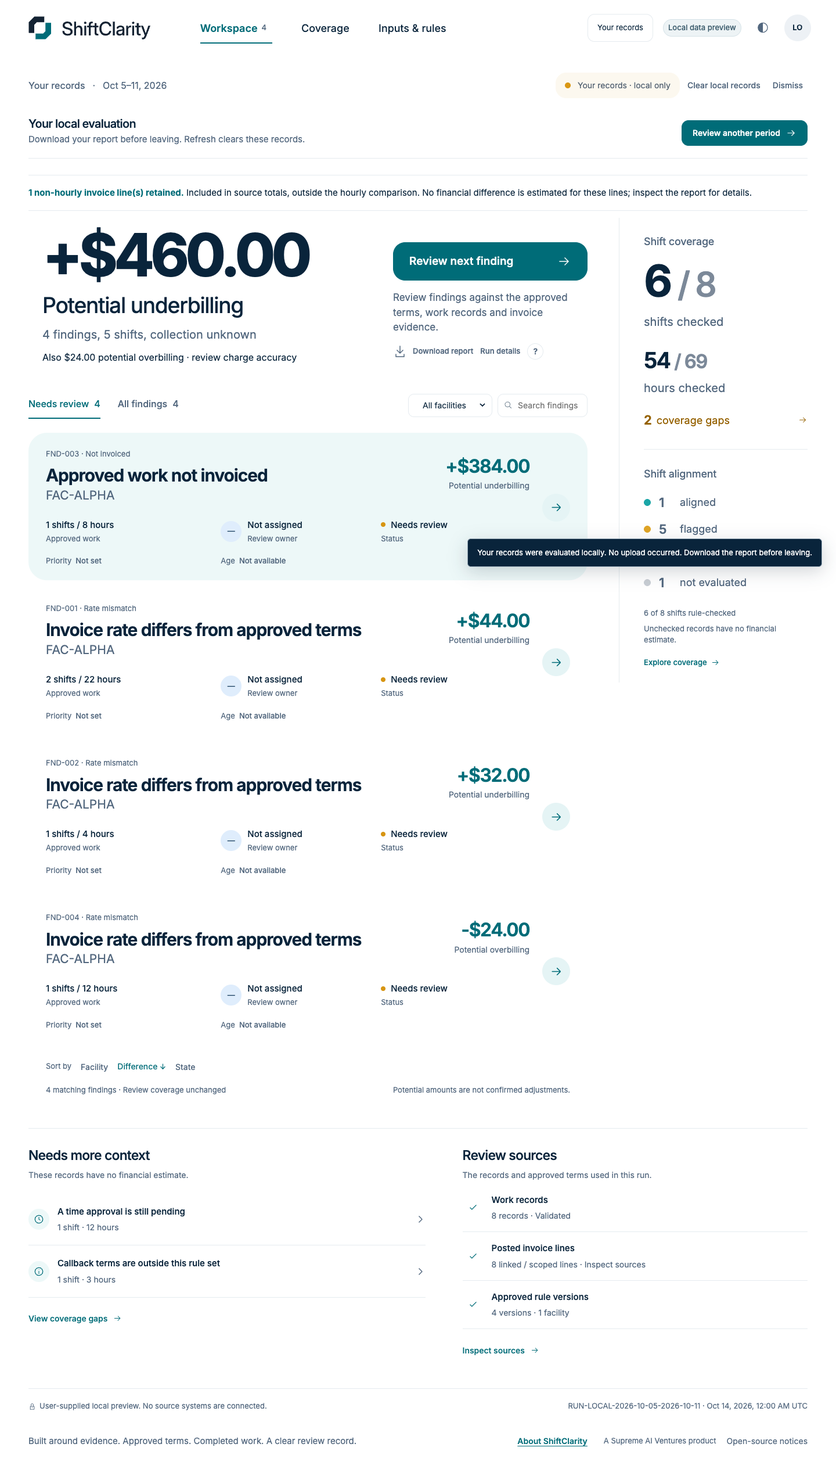
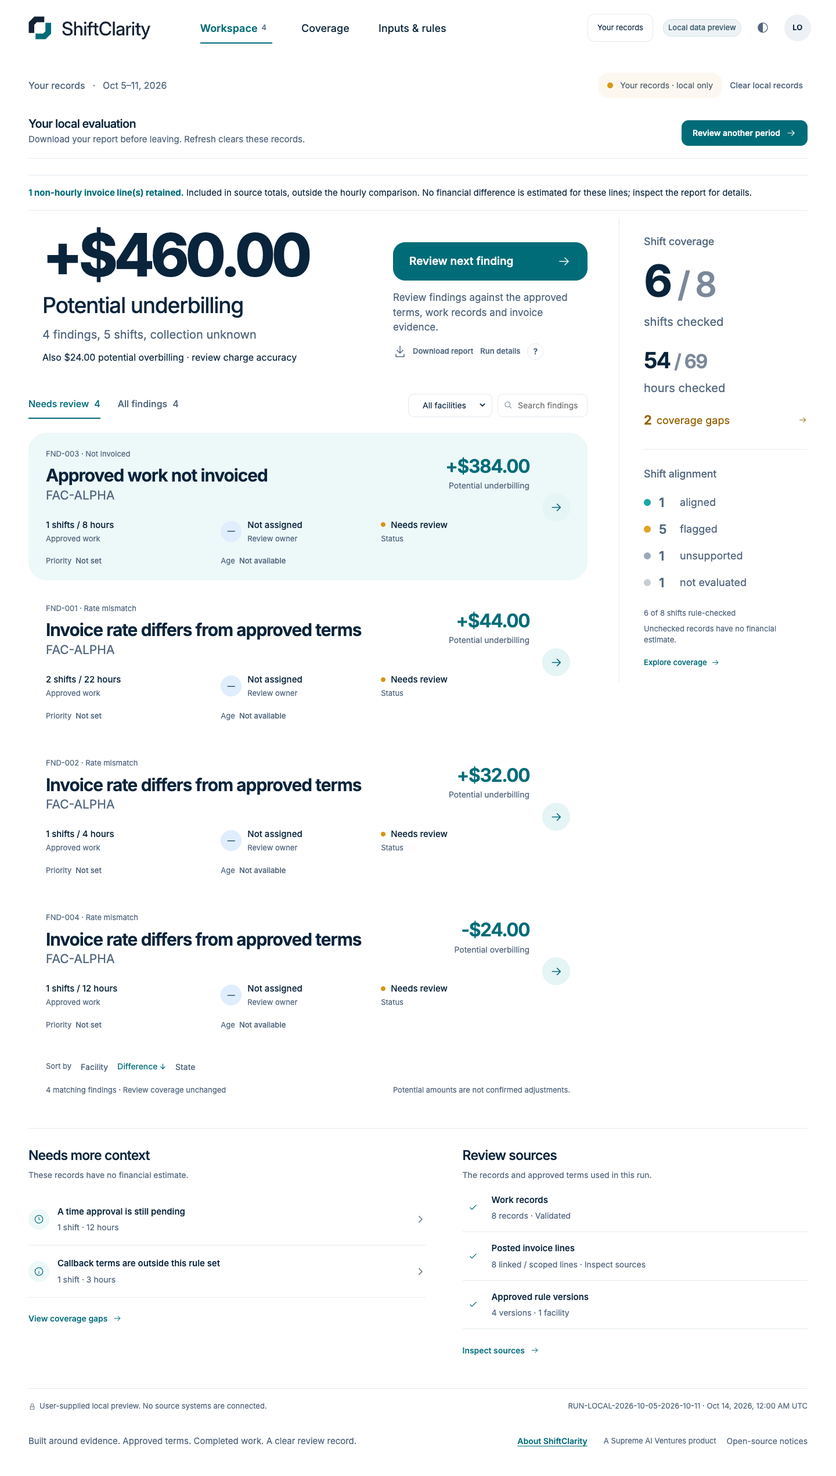
Clarify local-file setup and record live manual verification

Changed region(s): [[0.5625, 0.342, 1.0, 0.4042]]

diff --git a/src/App.tsx b/src/App.tsx
@@ -76,9 +76,9 @@ export default function App({pilot}:{pilot?:PilotController}={}){
  const selected=state.run?.findings.find(f=>f.id===(url.searchParams.get('id')||(url.searchParams.get('case')==='missing'?'FND-002':'FND-001')));
  return <div className="app-shell" data-theme={dark?'dark':'light'} onClick={intercept}><a className="skip" href="#main">Skip to content</a>
  <div className="app"><div className="appbody">
- <header className={'topbar'+(pilot?' pilot-topbar':'')}><a className="desktop-brand" href="?view=workspace" aria-label="ShiftClarity workspace"><Logo inverse={dark}/></a><div className="topbar-mobile"><button className="mobile-menu" aria-expanded={menu} aria-label="Toggle workspace navigation" onClick={()=>setMenu(!menu)}><Icon name="menu"/></button><Logo inverse={dark}/></div><nav aria-label="Application navigation">{navigation.filter(v=>!(customData||view==='files')||v!=='rules').map(v=>{const active=v==='workspace'?['workspace','evidence'].includes(view):v==='inputs'?['inputs','import','files','custom'].includes(view):view===v;return <a key={v} className={'navlink '+(active?'active':'')} href={'?view='+v} aria-label={labels[v]} aria-current={active?'page':undefined}>{labels[v]}{v==='workspace'&&<span className="nav-count">{state.run?.findings.filter(f=>reviewFor(f,state.reviews).state==='needs_review').length||0}</span>}</a>;})}</nav><div className="top-right"><span className="workspace-context">{workspaceLabel}</span>{pilot&&<Pill type="demo">Synthetic pilot</Pill>}{!pilot&&customData&&<Pill type="demo">Local data preview</Pill>}<button className="theme-toggle" type="button" aria-label={dark?'Use light mode':'Use dark mode'} aria-pressed={dark} onClick={toggleTheme}><span aria-hidden="true">◐</span></button>{pilot&&<button className="account-signout" type="button" onClick={()=>void pilot.logout().catch(e=>setNotice('Sign-out failed. '+displayUserText((e as Error).message)))}>Sign out</button>}<span className="avatar" aria-label={actorLabel(avatarActor)}>{actorInitials(avatarActor)}</span></div></header>
+ <header className={'topbar'+(pilot?' pilot-topbar':'')}><a className="desktop-brand" href="?view=workspace" aria-label="ShiftClarity workspace"><Logo inverse={dark}/></a><div className="topbar-mobile"><button className="mobile-menu" aria-expanded={menu} aria-label="Toggle workspace navigation" onClick={()=>setMenu(!menu)}><Icon name="menu"/></button><Logo inverse={dark}/></div><nav aria-label="Application navigation">{navigation.filter(v=>!(customData||view==='files')||v!=='rules').map(v=>{const active=v==='workspace'?['workspace','evidence'].includes(view):v==='inputs'?['inputs','import','files','custom'].includes(view):view===v;return <a key={v} className={'navlink '+(active?'active':'')} href={'?view='+v} aria-label={labels[v]} aria-current={active?'page':undefined}>{labels[v]}{v==='workspace'&&view!=='files'&&<span className="nav-count">{state.run?.findings.filter(f=>reviewFor(f,state.reviews).state==='needs_review').length||0}</span>}</a>;})}</nav><div className="top-right"><span className="workspace-context">{workspaceLabel}</span>{pilot&&<Pill type="demo">Synthetic pilot</Pill>}{!pilot&&customData&&<Pill type="demo">Local data preview</Pill>}<button className="theme-toggle" type="button" aria-label={dark?'Use light mode':'Use dark mode'} aria-pressed={dark} onClick={toggleTheme}><span aria-hidden="true">◐</span></button>{pilot&&<button className="account-signout" type="button" onClick={()=>void pilot.logout().catch(e=>setNotice('Sign-out failed. '+displayUserText((e as Error).message)))}>Sign out</button>}<span className="avatar" aria-label={actorLabel(avatarActor)}>{actorInitials(avatarActor)}</span></div></header>
  <nav className={'mobile-nav-links '+(menu?'open':'')} aria-label="Mobile application navigation">{navigation.filter(v=>!(customData||view==='files')||v!=='rules').map(v=><a href={'?view='+v} key={v} aria-current={view===v?'page':undefined}>{labels[v]}</a>)}</nav>
- <div className="page-context" role="region" aria-label="Page context"><div className="breadcrumbs"><strong>{workspaceLabel}</strong><span>·</span><span>{view==='workspace'&&state.run?formatDateRange(state.run.manifest.service_from,state.run.manifest.service_to_exclusive):labels[view]||'Your records'}</span></div>{!pilot&&(disclosureVisible||customData||view==='files')&&<aside className="demo-banner" role="note" aria-label={customData||view==='files'?'Local data disclosure':'Demo disclosure'}><span className="demo-data-label"><i aria-hidden="true"/>{customData||view==='files'?'Your records · local only':'Fictional demo data'}<span className="sr-only">{customData||view==='files'?'Records remain in this tab. Refresh clears your work.':'Demo with fictional data. No source systems connected.'}</span></span><button className="banner-reset" onClick={()=>openModal({kind:'reset'})}>{customData?'Clear local records':'Reset demo'}</button><button className="banner-dismiss" aria-label="Dismiss demo disclosure" onClick={dismissDisclosure}>Dismiss</button></aside>}</div>
+ <div className="page-context" role="region" aria-label="Page context"><div className="breadcrumbs"><strong>{workspaceLabel}</strong><span>·</span><span>{view==='workspace'&&state.run?formatDateRange(state.run.manifest.service_from,state.run.manifest.service_to_exclusive):labels[view]||'Your records'}</span></div>{!pilot&&(disclosureVisible||customData||view==='files')&&<aside className="demo-banner" role="note" aria-label={customData||view==='files'?'Local data disclosure':'Demo disclosure'}><span className="demo-data-label"><i aria-hidden="true"/>{customData||view==='files'?'Your records · local only':'Fictional demo data'}<span className="sr-only">{customData||view==='files'?'Records remain in this tab. Refresh clears your work.':'Demo with fictional data. No source systems connected.'}</span></span>{(customData||view!=='files')&&<button className="banner-reset" onClick={()=>openModal({kind:'reset'})}>{customData?'Clear local records':'Reset demo'}</button>}{!customData&&view!=='files'&&<button className="banner-dismiss" aria-label="Dismiss demo disclosure" onClick={dismissDisclosure}>Dismiss</button>}</aside>}</div>
  <main id="main" className="content" tabIndex={-1}>{notice&&<div className="toast" role="status" aria-live="polite"><span>{displayUserText(notice)}</span>{undo?.notice===notice&&!pilot&&<button className="toast-undo" onClick={()=>{setState(undo.state);setUndo(null);setNotice('Review action undone. Finding status and count restored.');}}>Undo</button>}</div>}{state.stale&&view!=='workspace'&&<div className="warning-box stale" role="alert"><strong>Stale results · {state.run?.id} retained</strong><p>The latest run failed: {displayUserText(state.error||'')}. No partial result was published. Rerun validated evidence before review.</p></div>}{state.importState==='quarantined'&&<div className="warning-box" role="alert"><strong>Quarantined input · not imported</strong><p>{displayUserText(state.error||'')}</p></div>}
  {pilot&&<nav className="workflow-nav" aria-label="Review workflow"><span>{state.run?.id===pilot.latest_run_id?'Latest completed run':'Historical run · original evidence'}</span><a href="?view=history" aria-current={view==='history'?'page':undefined}>Period history</a><a href="?view=followup" aria-current={view==='followup'?'page':undefined}>Follow-up queue</a><a href="?view=import">Import / approve files</a>{pilot.session.roles.includes('owner')&&<a href="?view=setup" aria-current={view==='setup'?'page':undefined}>Workspace &amp; team</a>}</nav>}
  {pilot&&view==='setup'&&<AgencySetup pilot={pilot}/>}
@@ -105,7 +105,7 @@ export default function App({pilot}:{pilot?:PilotController}={}){
  {view==='rules'&&!customData&&<Rules state={pilot?.approval?{...state,draft:pilot.approval.draft,ruleHistory:pilot.approval.ruleHistory,approvedFutureRules:pilot.approval.approvedFutureRules}:state} sourceExcerpts={pilot?.catalog.excerpts} actor={activeActor} secure={!!pilot} canApprove={!pilot||pilot.session.roles.includes('approver')} onActor={setActor} onApprove={doApprove} onReject={()=>openModal({kind:'reject'})}/>}
  {view==='coverage'&&<Coverage state={state} secure={!!pilot} canReview={!pilot||pilot.session.roles.includes('reviewer')} onRequest={task=>openModal({kind:'task',task})}/>}{view==='files'?<p className="footnote">Your files stay in this tab. Download the report before leaving; refresh clears the local review.</p>:<Foot secure={!!pilot} run={state.run?.id} manifest={state.run?.manifest}/>}<footer className="product-footer"><p>Built around evidence. Approved terms. Completed work. A clear review record.</p><div><button className="footer-about" onClick={()=>openModal({kind:'about'})}>About ShiftClarity</button><span>A Supreme AI Ventures product</span><a href="/legal/third-party-notices.txt" target="_blank" rel="noreferrer">Open-source notices</a></div></footer></main></div></div>
  {modal?.kind==='report'&&state.run&&<ReportDownloads state={state} secure={!!pilot} onClose={()=>setModal(null)}/>}
- {modal&&modal.kind!=='report'&&<Dialog secure={!!pilot} localData={customData} title={modal.kind==='review'?({confirm:'Confirm discrepancy',dismiss:'Dismiss with a scoped reason',request_evidence:pilot?'Record an evidence request':'Prepare a local evidence request',reopen:'Reopen for review'}[modal.action]):modal.kind==='reset'?'Reset the synthetic demo?':modal.kind==='import'?(pilot?'Import a synthetic snapshot':'Load synthetic fixture files'):modal.kind==='reject'?'Reject the proposed rule':modal.kind==='task'?(pilot?'Record an evidence request':'Prepare a local evidence request'):modal.kind==='shortcuts'?'Keyboard shortcuts':'Every shift. Clearly aligned.'} onClose={()=>setModal(null)}>
- {modal.kind==='reset'?<><p>This clears the current local records and decisions, then restores the canonical fictional snapshot. Download your report first if you want to keep a copy.</p><button className="btn btn-primary" onClick={()=>{setUndo(null);setState(initialDemo(freshInputs(),draftRule));setActor('DEMO-AUTHOR');setNotice('Demo reset to the canonical fictional snapshot.');setModal(null);navigate('?view=workspace');}}>Reset demo</button></>:modal.kind==='import'?<><p>{pilot?'Upload a normalized synthetic JSON bundle (maximum 1 MiB). No names, patient details, clinical fields, PDFs or archives. The server quarantines and validates source controls and registered rate versions before publication.':'Only supplied synthetic JSON, CSV and text files are accepted. Each selected supplied file is validated before reloading the full canonical snapshot. Individual-batch import is not enabled. No file is uploaded.'}</p>{fileValidating&&<p role="status">Validating the selected file locally…</p>}<input ref={fileInput} type="file" accept={pilot?'.json':undefined} aria-label={pilot?'Synthetic snapshot bundle':'Synthetic fixture file'} disabled={fileValidating||!!pilot&&!pilot.session.roles.includes('importer')} onChange={e=>{const file=e.target.files?.[0];if(file)void acceptFile(file);e.currentTarget.value='';}}/>{!pilot&&<button className="btn btn-primary" disabled={fileValidating} onClick={()=>{setUndo(null);setState(prev=>publish(prev,freshInputs()));setNotice('Canonical synthetic fixture loaded; duplicate records were not added.');setModal(null);}}>Load included fixture</button>}{pilot&&<><a className="text-link" href="/api/v1/template" download>Download synthetic template</a><p>Uploading confirms these records are fictional and contain no personal or clinical data.</p></>}{error&&<p className="error" role="alert">{displayUserText(error)}</p>}</>:modal.kind==='about'?<><p>Contract-to-invoice verification for healthcare staffing. A Supreme AI Ventures product.</p><p>{customData||view==='files'?'This browser-local evaluation uses supplied records and declarations. Source authority and completeness are not independently verified. Nothing is uploaded or collected.':'All facilities, workers, documents and amounts are fictional. Assist Healthcare is a sample workspace, not a client endorsement. This synthetic demonstration establishes no production security certification or collection outcome.'}</p><Link to="?view=inputs">Inspect inputs and run scope</Link></>:modal.kind==='shortcuts'?<><dl className="shortcut-list">{[['/','Focus findings search'],['j / k','Move to the next or previous finding'],['Enter','Open the selected finding'],['?','Show keyboard shortcuts']].map(([key,description])=><div key={key}><dt><kbd>{key}</kbd></dt><dd>{description}</dd></div>)}</dl><p>Shortcuts pause while you type or a dialog is open.</p></>:<form onSubmit={submit} aria-busy={saving}><p>{customData?'Use authorized, minimized notes.':'Synthetic notes only.'} A decision does not change a source invoice. Evidence requests create a {pilot?'workspace':'local'} task; nothing is sent.</p><label htmlFor="review-reason">{modal.kind==='task'||(modal.kind==='review'&&modal.action==='request_evidence')?'Specific question':'Review reason'}</label><textarea id="review-reason" value={reason} onChange={e=>setReason(e.target.value)} maxLength={2000} autoFocus/>{(modal.kind==='task'||(modal.kind==='review'&&modal.action==='request_evidence'))&&<><label htmlFor="task-owner">{pilot?'Workspace task owner':'Local task owner'}</label><select id="task-owner" value={owner} onChange={e=>setOwner(e.target.value)}><option value="">Choose an owner</option>{pilot?pilot.members.map(m=><option key={m}>{m}</option>):<><option>{customData?'Local billing reviewer':'Demo billing reviewer'}</option><option>{customData?'Local operations coordinator':'Demo operations coordinator'}</option></>}</select></>}{error&&<p className="error" role="alert">{displayUserText(error)}</p>}<button className="btn btn-primary" type="submit" disabled={saving}>{saving?'Saving…':`${pilot?'Save':'Save local'} ${modal.kind==='task'?'task':'review'}`}</button></form>}
+ {modal&&modal.kind!=='report'&&<Dialog secure={!!pilot} localData={customData} title={modal.kind==='review'?({confirm:'Confirm discrepancy',dismiss:'Dismiss with a scoped reason',request_evidence:pilot?'Record an evidence request':'Prepare a local evidence request',reopen:'Reopen for review'}[modal.action]):modal.kind==='reset'?(customData?'Clear local records?':'Reset the synthetic demo?'):modal.kind==='import'?(pilot?'Import a synthetic snapshot':'Load synthetic fixture files'):modal.kind==='reject'?'Reject the proposed rule':modal.kind==='task'?(pilot?'Record an evidence request':'Prepare a local evidence request'):modal.kind==='shortcuts'?'Keyboard shortcuts':'Every shift. Clearly aligned.'} onClose={()=>setModal(null)}>
+ {modal.kind==='reset'?<><p>This clears the current local records and decisions, then restores the canonical fictional snapshot. Download your report first if you want to keep a copy.</p><button className="btn btn-primary" onClick={()=>{setUndo(null);setState(initialDemo(freshInputs(),draftRule));setActor('DEMO-AUTHOR');setNotice('Demo reset to the canonical fictional snapshot.');setModal(null);navigate('?view=workspace');}}>{customData?'Clear local records':'Reset demo'}</button></>:modal.kind==='import'?<><p>{pilot?'Upload a normalized synthetic JSON bundle (maximum 1 MiB). No names, patient details, clinical fields, PDFs or archives. The server quarantines and validates source controls and registered rate versions before publication.':'Only supplied synthetic JSON, CSV and text files are accepted. Each selected supplied file is validated before reloading the full canonical snapshot. Individual-batch import is not enabled. No file is uploaded.'}</p>{fileValidating&&<p role="status">Validating the selected file locally…</p>}<input ref={fileInput} type="file" accept={pilot?'.json':undefined} aria-label={pilot?'Synthetic snapshot bundle':'Synthetic fixture file'} disabled={fileValidating||!!pilot&&!pilot.session.roles.includes('importer')} onChange={e=>{const file=e.target.files?.[0];if(file)void acceptFile(file);e.currentTarget.value='';}}/>{!pilot&&<button className="btn btn-primary" disabled={fileValidating} onClick={()=>{setUndo(null);setState(prev=>publish(prev,freshInputs()));setNotice('Canonical synthetic fixture loaded; duplicate records were not added.');setModal(null);}}>Load included fixture</button>}{pilot&&<><a className="text-link" href="/api/v1/template" download>Download synthetic template</a><p>Uploading confirms these records are fictional and contain no personal or clinical data.</p></>}{error&&<p className="error" role="alert">{displayUserText(error)}</p>}</>:modal.kind==='about'?<><p>Contract-to-invoice verification for healthcare staffing. A Supreme AI Ventures product.</p><p>{customData||view==='files'?'This browser-local evaluation uses supplied records and declarations. Source authority and completeness are not independently verified. Nothing is uploaded or collected.':'All facilities, workers, documents and amounts are fictional. Assist Healthcare is a sample workspace, not a client endorsement. This synthetic demonstration establishes no production security certification or collection outcome.'}</p><Link to="?view=inputs">Inspect inputs and run scope</Link></>:modal.kind==='shortcuts'?<><dl className="shortcut-list">{[['/','Focus findings search'],['j / k','Move to the next or previous finding'],['Enter','Open the selected finding'],['?','Show keyboard shortcuts']].map(([key,description])=><div key={key}><dt><kbd>{key}</kbd></dt><dd>{description}</dd></div>)}</dl><p>Shortcuts pause while you type or a dialog is open.</p></>:<form onSubmit={submit} aria-busy={saving}><p>{customData?'Use authorized, minimized notes.':'Synthetic notes only.'} A decision does not change a source invoice. Evidence requests create a {pilot?'workspace':'local'} task; nothing is sent.</p><label htmlFor="review-reason">{modal.kind==='task'||(modal.kind==='review'&&modal.action==='request_evidence')?'Specific question':'Review reason'}</label><textarea id="review-reason" value={reason} onChange={e=>setReason(e.target.value)} maxLength={2000} autoFocus/>{(modal.kind==='task'||(modal.kind==='review'&&modal.action==='request_evidence'))&&<><label htmlFor="task-owner">{pilot?'Workspace task owner':'Local task owner'}</label><select id="task-owner" value={owner} onChange={e=>setOwner(e.target.value)}><option value="">Choose an owner</option>{pilot?pilot.members.map(m=><option key={m}>{m}</option>):<><option>{customData?'Local billing reviewer':'Demo billing reviewer'}</option><option>{customData?'Local operations coordinator':'Demo operations coordinator'}</option></>}</select></>}{error&&<p className="error" role="alert">{displayUserText(error)}</p>}<button className="btn btn-primary" type="submit" disabled={saving}>{saving?'Saving…':`${pilot?'Save':'Save local'} ${modal.kind==='task'?'task':'review'}`}</button></form>}
  </Dialog>}</div>;
 }

diff --git a/tests/e2e/adoption.spec.ts b/tests/e2e/adoption.spec.ts
@@ -16,6 +16,7 @@ test('prospect imports their own exports, reviews both directions, and downloads
  await page.getByLabel('Work exports include all records for this facility and service period.').check();await page.getByLabel('Invoice exports include all posted lines, credits and rebills through this cutoff for the same scope.').check();await page.getByLabel('Independent work hours (optional)',{exact:true}).fill('69');await page.getByLabel('Independent signed posted total USD (optional)',{exact:true}).fill('3501.00');
  for(const name of ['work.csv','invoices.csv','rates.csv'])await page.getByRole('button',{name:'Confirm '+name+' mapping',exact:true}).click();await page.getByLabel('I’m authorized to test these minimized records, and I checked the supplied rate terms and declarations.').check();await publish(page);
  await expect(page.getByText('6 of 8 shifts rule-checked')).toBeVisible();await expect(page.locator('.demo-data-label')).toHaveText('Your records · local onlyRecords remain in this tab. Refresh clears your work.');await expect(page.getByRole('link',{name:'Rule approval',exact:true})).toHaveCount(0);
+ await expect(page.locator('.toast')).toHaveCount(0,{timeout:10000});
  await page.screenshot({path:info.outputPath('own-file-workspace.png'),fullPage:true});
  await page.getByRole('button',{name:'Download report',exact:true}).click();await expect(page.getByRole('dialog')).toContainText('Your records · local only');await expect(page.getByRole('dialog')).toContainText('Non-hourly invoice lines');
  await page.emulateMedia({media:'print'});await page.pdf({path:info.outputPath('own-file-billing-review.pdf'),printBackground:true,preferCSSPageSize:true});await page.emulateMedia({media:null});
@@ -53,4 +54,21 @@ test('Excel exports are read in-browser with explicit sheet selection and a real
 });
 test('an active Excel workbook is rejected locally before mappings or upload',async({page})=>{
  await page.goto('/demo/?view=files');const XLSX=await import('xlsx'),book=XLSX.utils.book_new(),sheet=XLSX.utils.aoa_to_sheet([['Work ID','Hours'],['W1',8]]);sheet.B2.f='2+6';XLSX.utils.book_append_sheet(book,sheet,'Time');await page.getByLabel('Local Approved work',{exact:true}).setInputFiles({name:'formula.xlsx',mimeType:'application/vnd.openxmlformats-officedocument.spreadsheetml.sheet',buffer:XLSX.write(book,{type:'buffer',bookType:'xlsx',compression:true})});await expect(page.getByRole('alert')).toContainText('Formula cells');await expect(page.locator('.local-mapping')).toHaveCount(0);await expect(page.getByRole('button',{name:'Validate files locally',exact:false})).toBeDisabled();
+});
+
+test('own-file setup separates staged files from demo results and clearing names the local records',async({page})=>{
+ await page.goto('/demo/?view=files');
+ const nav=page.getByRole('navigation',{name:'Application navigation',exact:true});
+ const disclosure=page.getByRole('note',{name:'Local data disclosure',exact:true});
+ await expect(nav.locator('.nav-count')).toHaveCount(0);
+ await expect(disclosure).toContainText('Your records · local only');
+ await expect(disclosure.getByRole('button')).toHaveCount(0);
+ await configure(page);await publish(page);
+ await expect(nav.locator('.nav-count')).toHaveText('4');
+ await disclosure.getByRole('button',{name:'Clear local records',exact:true}).click();
+ const dialog=page.getByRole('dialog',{name:'Clear local records?',exact:true});
+ await expect(dialog).toContainText('Download your report first');
+ await dialog.getByRole('button',{name:'Clear local records',exact:true}).click();
+ await expect(page.getByRole('note',{name:'Demo disclosure',exact:true})).toContainText('Fictional demo data');
+ await expect(nav.locator('.nav-count')).toHaveText('2');
 });

diff --git a/docs/VERIFICATION.md b/docs/VERIFICATION.md
@@ -201,3 +201,14 @@ Post-release recovery matched **19 tables** and **65 private source objects** in
 The manual Ego workspace disappeared; no replacement was created without the skill-required permission. Actual Chrome outputs, downloaded workbooks/PDFs and desktop/mobile landing captures were inspected instead. The optional browser-tool update remains unapplied. No manual sign-in or real-agency acceptance is claimed for this release.
 
 Research and invented export variants do not establish vendor certification, real-customer accuracy or a measured conversion/savings outcome. Customer-specific approved exports, contract semantics, independent labels and customer-cloud operating approval remain external acceptance work.
+
+
+### Approved manual follow-up · October 24, 2026
+
+With the user's permission, Ego task 8 manually exercised the live landing CTA, fictional CSV loading, all three confirmed mappings, readiness declarations, the published local workspace, evidence tabs, coverage gaps and report controls. The downloaded ten-sheet Excel report was independently read with OpenPyXL: $460 potential underbilling, $24 potential overbilling, $25 non-hourly charge retained, literal cells and worker identities omitted. The original work-approval event remains explicitly unknown. At 390px, evidence, coverage and the final file-setup header fit the viewport and render on a white background. Task 8 was finished once after verification.
+
+Inspection found a small context mismatch: staged own-file setup showed a finding count from the fictional demo and an irrelevant reset action. The setup now hides those controls; published local records retain their own count and a consistently named “Clear local records” confirmation. The mandatory local-data disclosure has no ineffective dismissal button. Canonical demo dismissal/reset behavior remains covered.
+
[1 lines of base64/hex data omitted]
+
+Ego screenshot capture still timed out, so this adds manual interaction/layout evidence, not a new Ego image or Safari/device test. The optional browser-tool update remains unapplied. Backend logic, private-account lifecycle and recovery were unchanged and were not unnecessarily rerun; their earlier evidence remains above. Real-agency acceptance gates remain open.

diff --git a/IMPLEMENTATION_STATUS.md b/IMPLEMENTATION_STATUS.md
@@ -1,5 +1,9 @@
 # ShiftClarity implementation status
 
+## Manual release follow-up · October 24, 2026
+
+Completed the approved live manual inspection: landing → local files → mapping/readiness → findings/evidence/coverage → downloaded Excel. Corrected demo-only header controls during own-file setup and made local clearing labels consistent. Production build, 142 unit/component, 14 focused local browser and 12 live own-file checks pass. Both existing functions are verified at digest `c5a61b04ef9fd9f8`; no infrastructure drift. Refreshed the actual hosted README product screenshot. [Verification](docs/VERIFICATION.md) records manual evidence and tooling limits; customer acceptance gates are unchanged.
+
 ## Latest release · October 24, 2026
 
 Deployed browser-local agency CSV/XLSX evaluation, source-aware export guidance, explicit mappings and reusable metadata, safe approval/cutoff handling, retained non-hourly charges, useful reports, and an agency-focused landing. Existing private periods, approvals, Cognito permissions, reports and corrections remain verified. [AD-01–AD-06](docs/AGENCY_ADOPTION.md) map implementation to evidence. The included manual kit independently derives $460 potential underbilling and $24 potential overbilling with 6/8 records evaluated; no real agency outcome is claimed.
